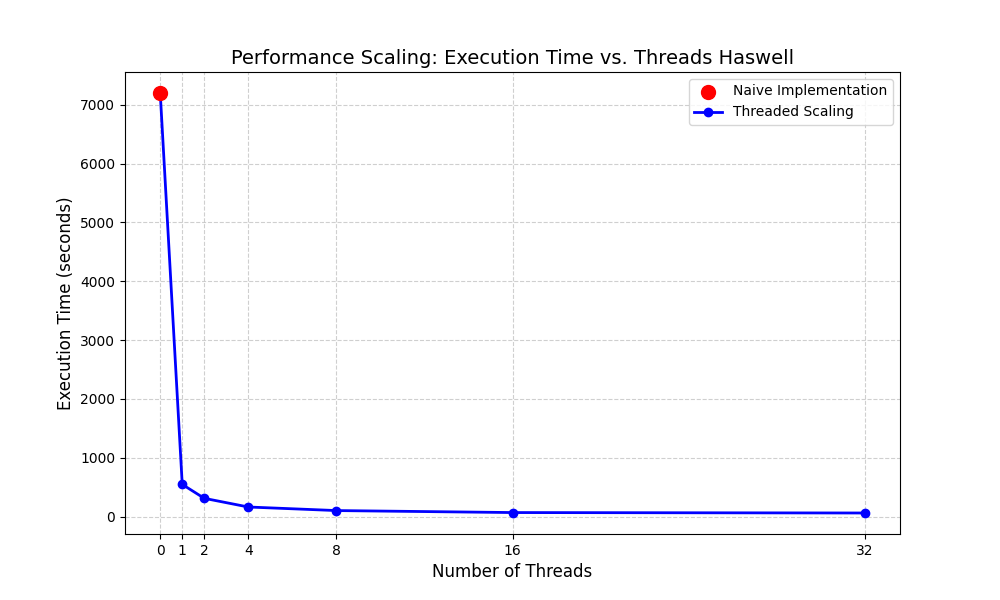
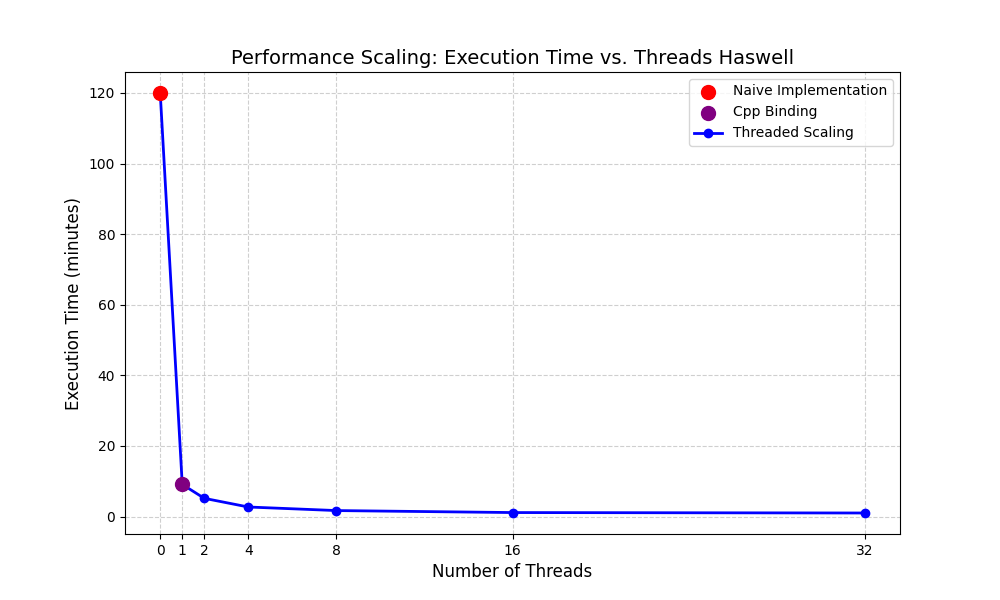
New tests

diff --git a/README.md b/README.md
@@ -104,12 +104,12 @@ Running the [benchmaker](benchmarkCluster.sh) on the Haswell cluster  we get the
 
 | Threads | Intel (s) | Amd (s) |
 | :--- | :--- | :--- |
-| 1 | 47.188177105 | 55.806924714 |
-| 2 | 4.657180860 |  4.964595428 |
-| 4 | 5.781218087 |  4.431720859 |
-| 8 | 6.841852061 |  4.508872473 |
-| 16 | 4.594425071 | 4.441886920 |
-| 32 | 4.511585210 | 4.462919071 |
+| 1 | 11.739215913 |12.615934336 |
+| 2 | 10.824213070 | 11.250727104 |
+| 4 | 10.859506209 | 11.213056265 |
+| 8 | 10.826040867 | 11.163926227 |
+| 16 | 10.951088817 | 11.278679323 |
+| 32 | 11.222310490 | 11.610916813 |
 
 ![SpeedUpIntel Picture](Data/SpeedUpIntelTest1.png)
 ![SpeedUpAmd Picture](Data/SpeedUpAmdTest1.png)
@@ -125,12 +125,12 @@ e achieves the lowest absolute wall time at $n=32$ ($4.51s$), the AMD node exhib
 
 | Threads | Intel (s) | Amd (s) |
 | :--- | :--- | :--- |
-| 1 | 588.397543486 | 523.156452409 |
-| 2 | 306.576713053 | 269.135786464 |
-| 4 | 161.796424869 | 144.527605480 |
-| 8 | 101.207620188 | 85.532290445 |
-| 16 | 67.152671499 | 54.153843128 |
-| 32 | 58.351383793 | 44.326593311 |
+| 1 | 521.284142452 | 545.721814129 |
+| 2 | 271.254715141 | 309.018799869 |
+| 4 | 146.500909343 | 161.561863878 |
+| 8 | 85.829464102 | 100.931989351 |
+| 16 | 54.721426553 | 67.099733466 |
+| 32 | 45.142658563 | 59.543615310 |
 
 ![SpeedUpIntel Picture](Data/SpeedUpIntelTest2.png)
 ![SpeedUpAmd Picture](Data/SpeedUpAmdTest2.png)
